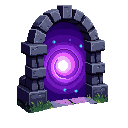
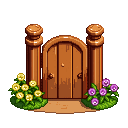
feat(portail): nouveau sprite portail de jardin + repositionnement
- Remplace le portail magique (tourbillon violet) par un portail de
  jardin en bois avec fleurs colorées (PixelLab, 128×128px)
- Ferme : déplacé en haut-droite au-dessus du sommet de l'arbre
  (bottom: TREE_SIZE + 36, right: 64)
- Village : décalé 10px vers la droite pour alignement carte

diff --git a/components/village/PortalSprite.tsx b/components/village/PortalSprite.tsx
@@ -5,7 +5,7 @@
 // Couvre VILL-11 (portail retour visuel symétrique), CD-04 (mutualisation).
 
 import React, { useCallback } from 'react';
-import { Image, StyleSheet, TouchableOpacity } from 'react-native';
+import { Dimensions, Image, StyleSheet, TouchableOpacity } from 'react-native';
 import Animated, {
   useSharedValue,
   useAnimatedStyle,
@@ -13,6 +13,10 @@ import Animated, {
 } from 'react-native-reanimated';
 import * as Haptics from 'expo-haptics';
 import { Spacing, Radius } from '../../constants/spacing';
+
+const { width: SCREEN_W } = Dimensions.get('window');
+// Même calcul que tree.tsx pour aligner le portail au-dessus du sommet de l'arbre
+const TREE_SIZE = Math.min(SCREEN_W * 0.65, 280);
 
 // Spring config constante module (convention CLAUDE.md)
 const SPRING_PORTAL = { damping: 12, stiffness: 200 } as const;
@@ -64,9 +68,9 @@ export function PortalSprite({
           top: y - CONTAINER_SIZE / 2,
         }
       : {
-          // Mode ferme diorama : bottom-right (reproduit styles.portalContainer original)
-          bottom: Spacing['4xl'],
-          right: Spacing['2xl'],
+          // Mode ferme diorama : gauche, au-dessus du sommet de l'arbre
+          bottom: TREE_SIZE + Spacing['3xl'] + 16,
+          right: Spacing['6xl'] + 16,
         };
 
   return (

diff --git a/app/(tabs)/village.tsx b/app/(tabs)/village.tsx
@@ -680,7 +680,7 @@ export default function VillageScreen() {
           {portalSlot && (
             <PortalSprite
               onPress={handleReturnPortalPress}
-              x={portalSlot.x * mapSize.width}
+              x={portalSlot.x * mapSize.width + 10}
               y={portalSlot.y * mapSize.height}
               accessibilityLabel="Retour à la ferme"
             />
